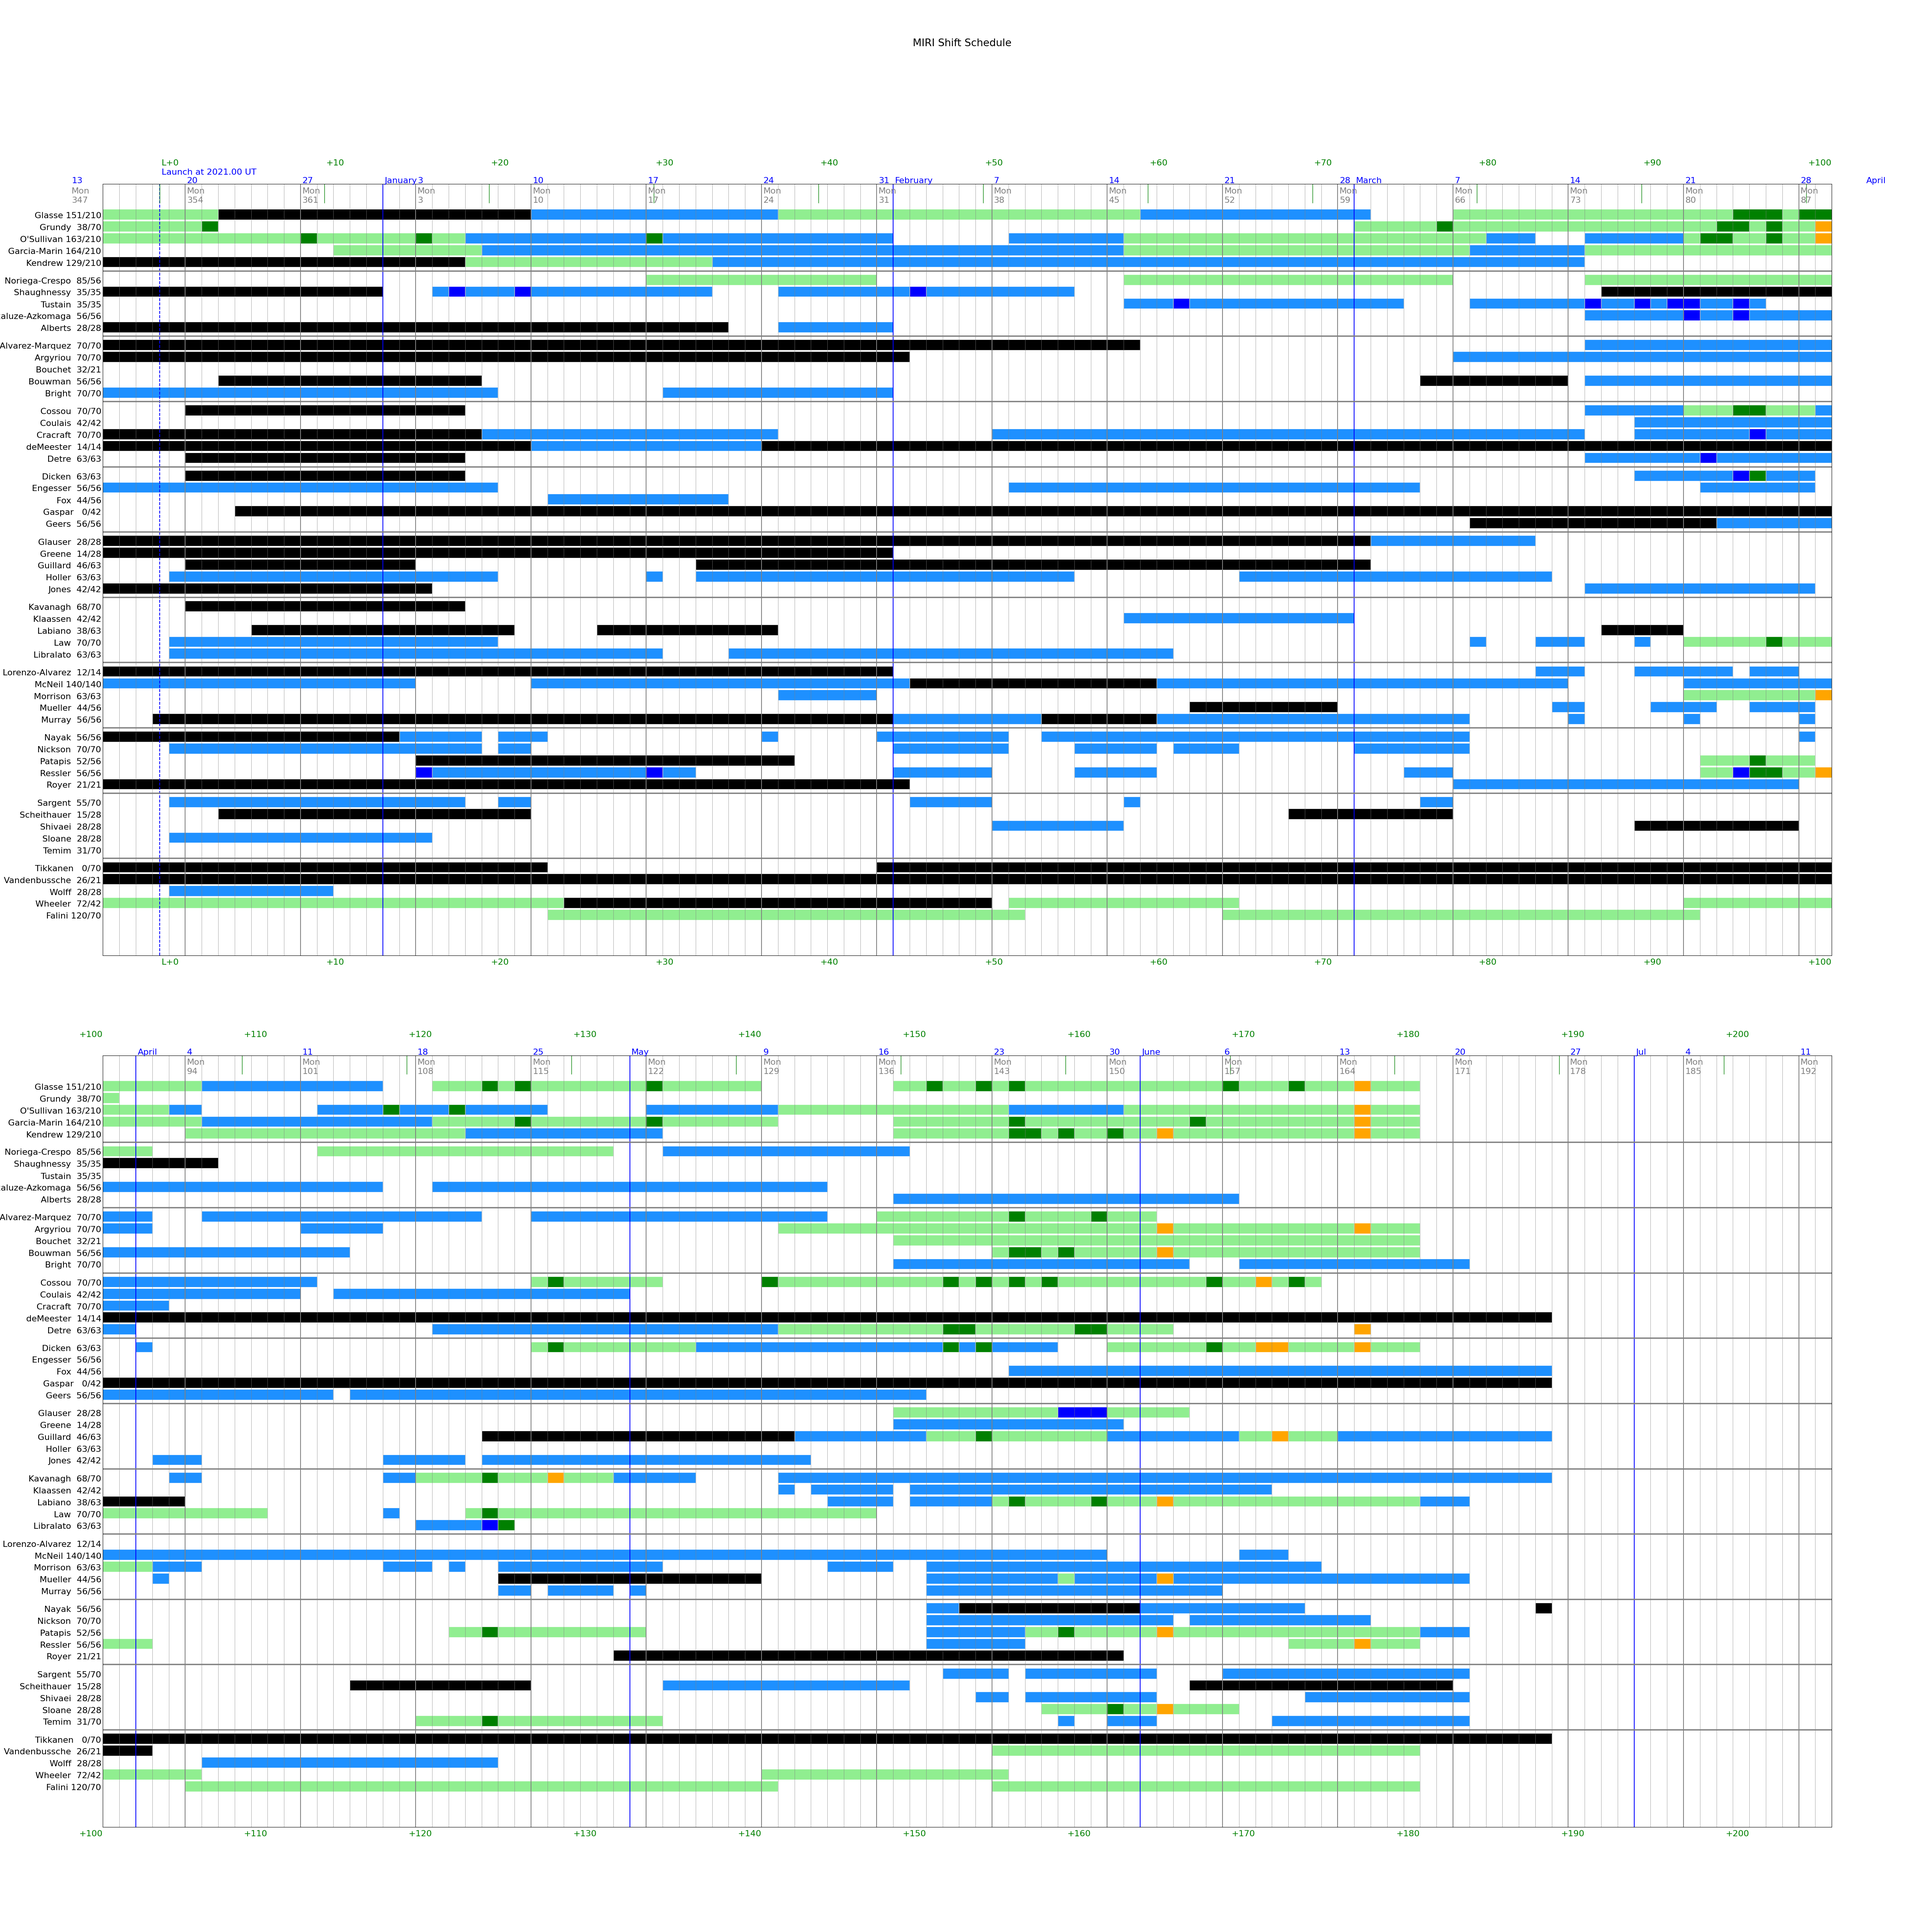
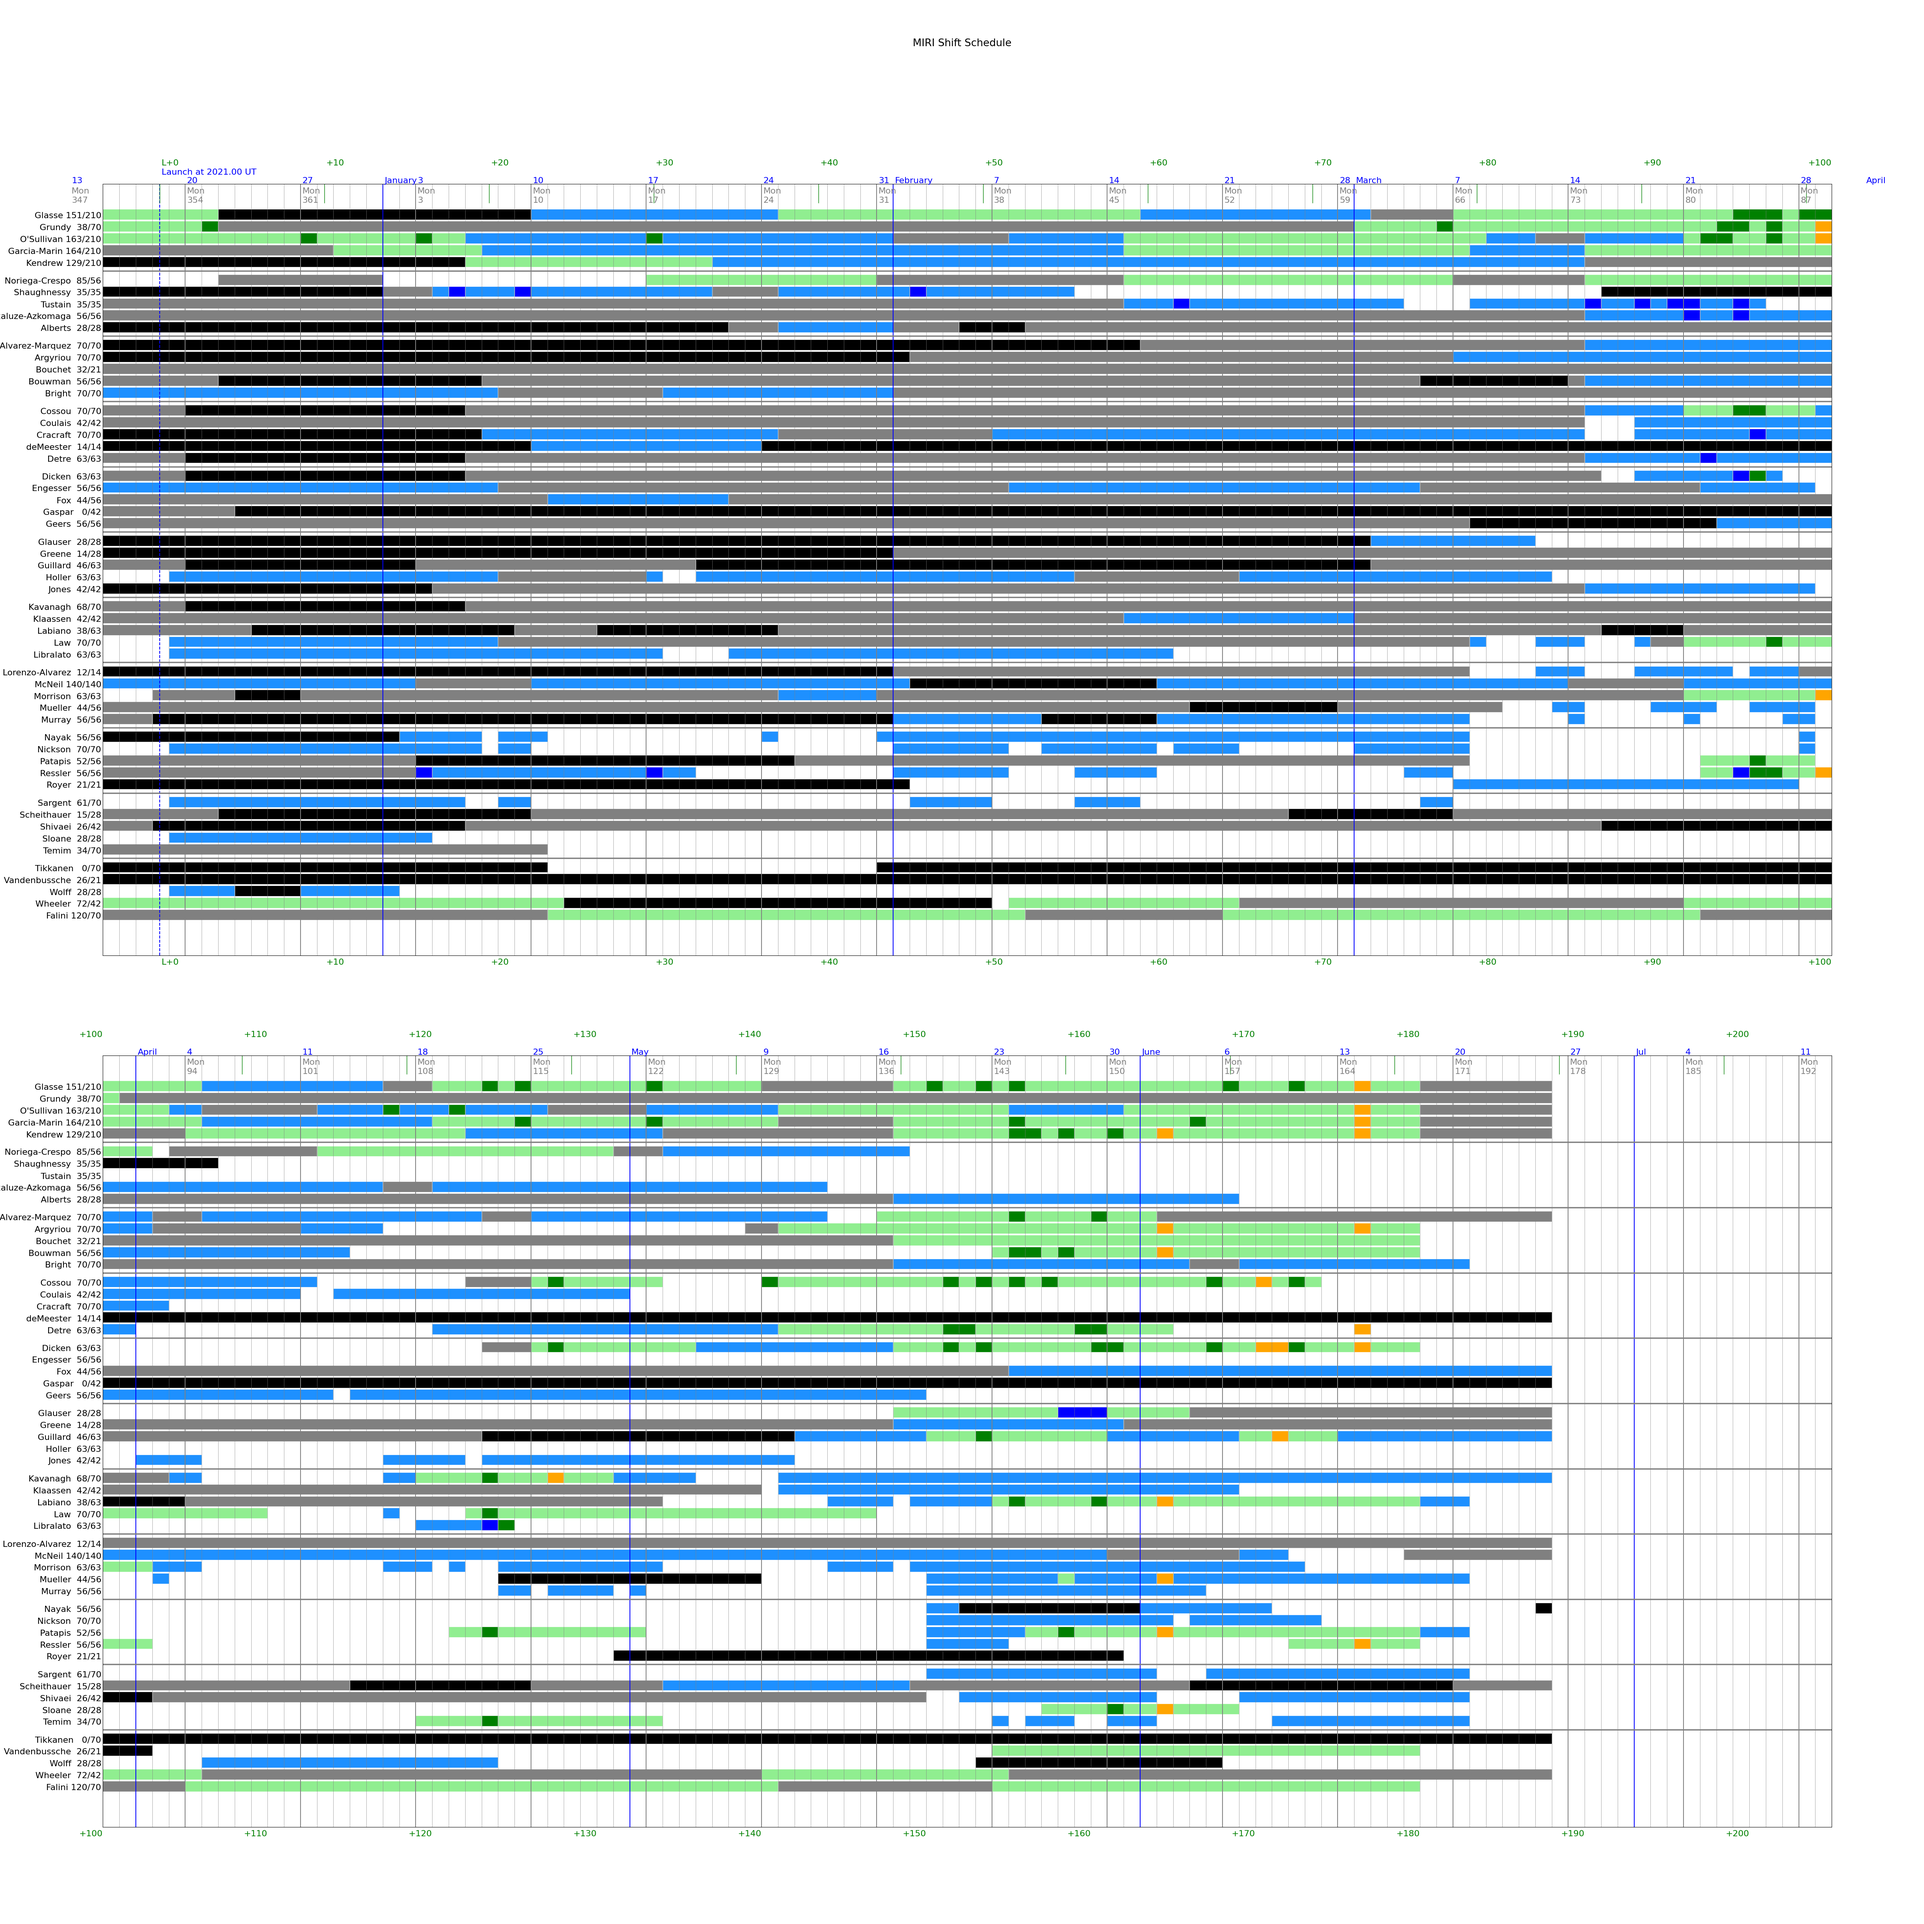
Fixed error in Irene's greyout days.  Added Dan's requests from 2/10/21 email.

diff --git a/source/car_utils.py b/source/car_utils.py
@@ -319,8 +319,6 @@ class CarUtils:
         for cpos in cpos_table:
             cpos_car_inst, cpos_pid, cpos_obs_list = cpos
             car, err_msg = CarUtils.get_car(cpos_car_inst)
-            if car == None:
-                nob = 1
             car.obs_list = []
             car.t_sci_apt, car.t_dur_apt = 0.0, 0.0
             handled_obs_list = []
